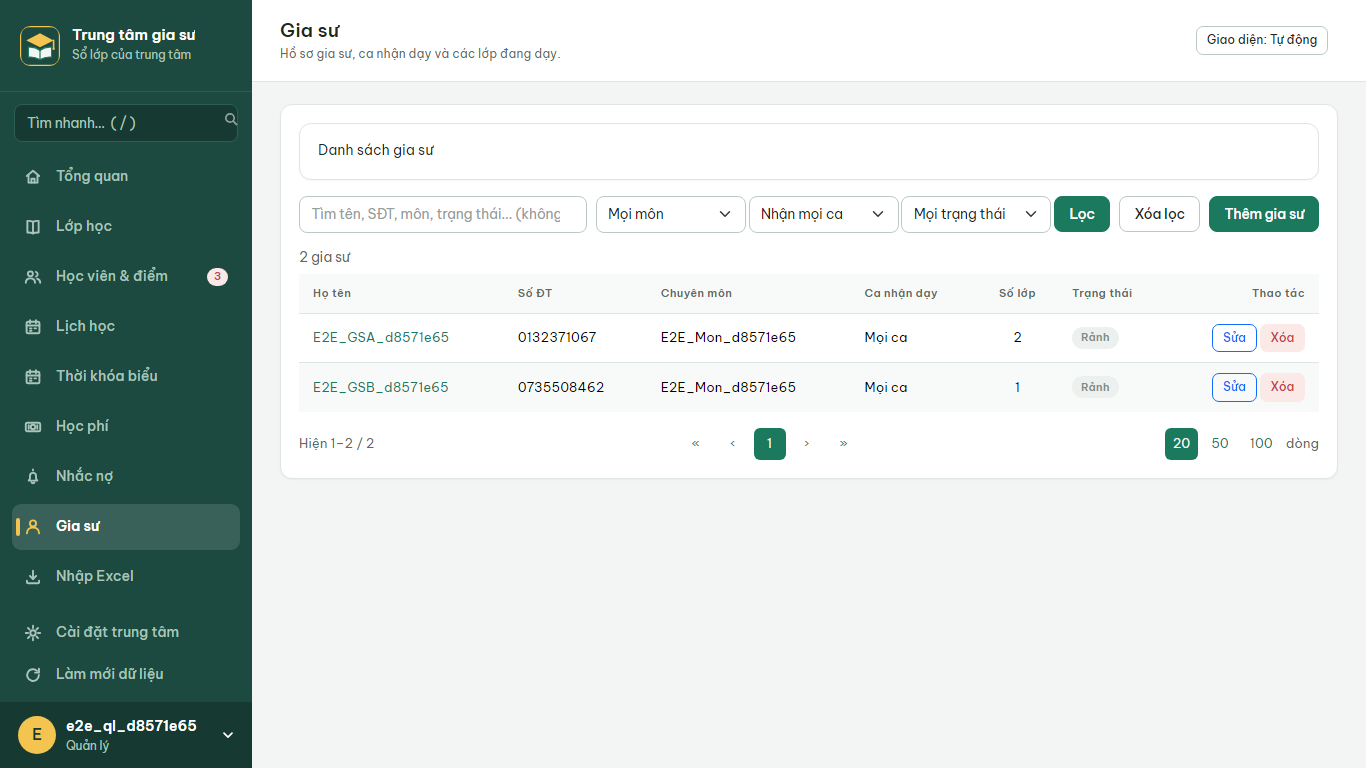
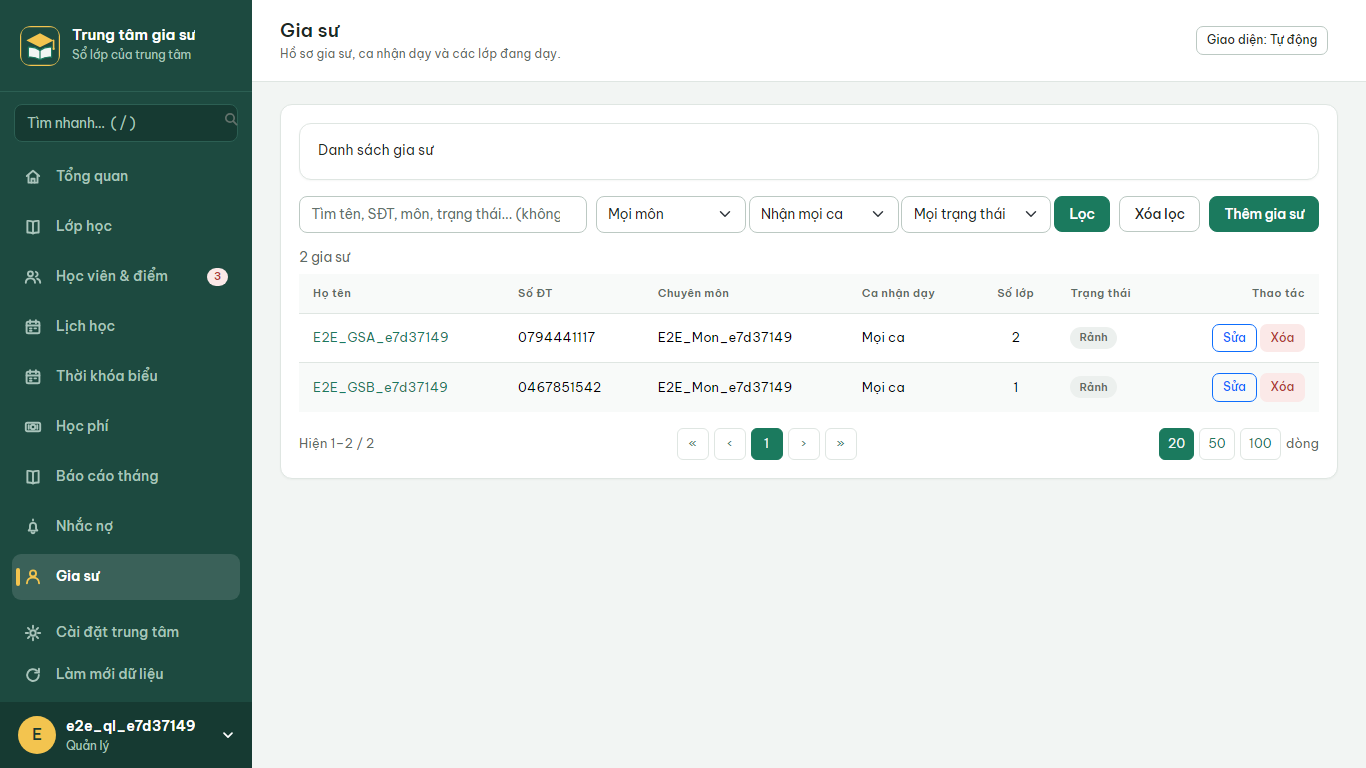
test(web): K6 không cố định số mục menu (thêm Báo cáo tháng)

diff --git a/DoAnWeb.E2E/KichBanTests.cs b/DoAnWeb.E2E/KichBanTests.cs
@@ -301,7 +301,8 @@ public class KichBanTests : GiaoDienTestBase
 
             string[] duongDan = await trang.Locator("nav.vo-nav a.vo-nav-link")
                 .EvaluateAllAsync<string[]>("links => links.map(link => link.getAttribute('href'))");
-            Assert.Equal(laQuanLy ? 12 : 3, duongDan.Length);
+            // Menu thay đổi khi thêm chức năng: chỉ cần có đủ mục tối thiểu (quản lý ≥ 12, gia sư ≥ 3), test quét hết các mục có thật
+            Assert.True(duongDan.Length >= (laQuanLy ? 12 : 3), $"Menu chỉ có {duongDan.Length} mục");
             if (laQuanLy) duongDan = duongDan.Append("/CaiDat").ToArray();
 
             var loiCsp = new List<string>();
